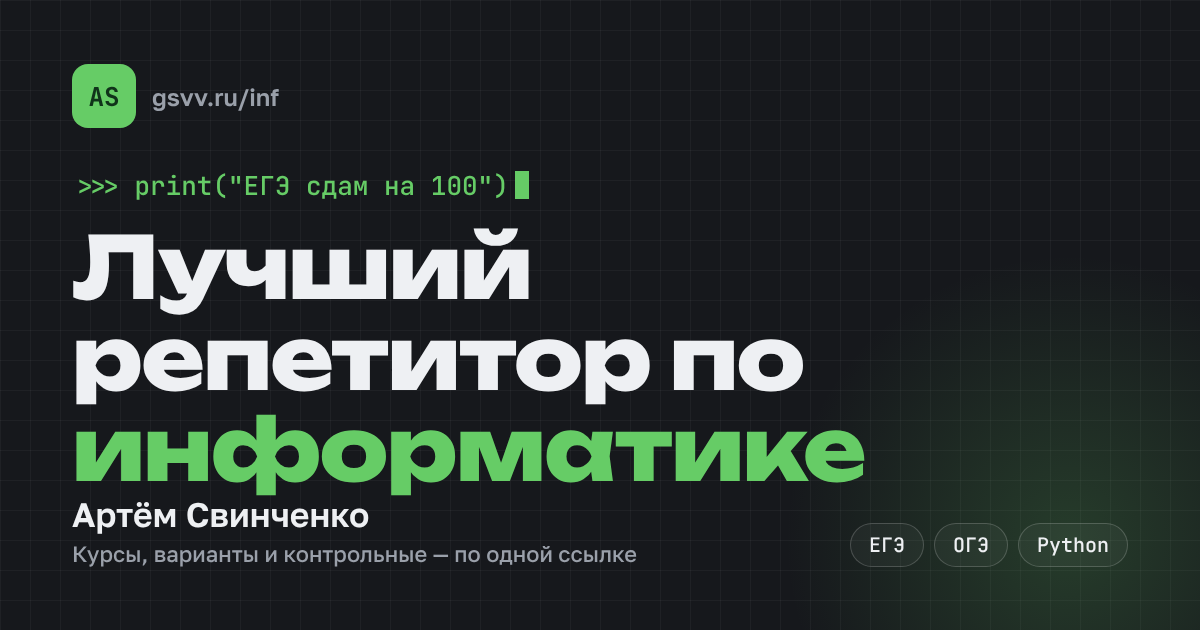
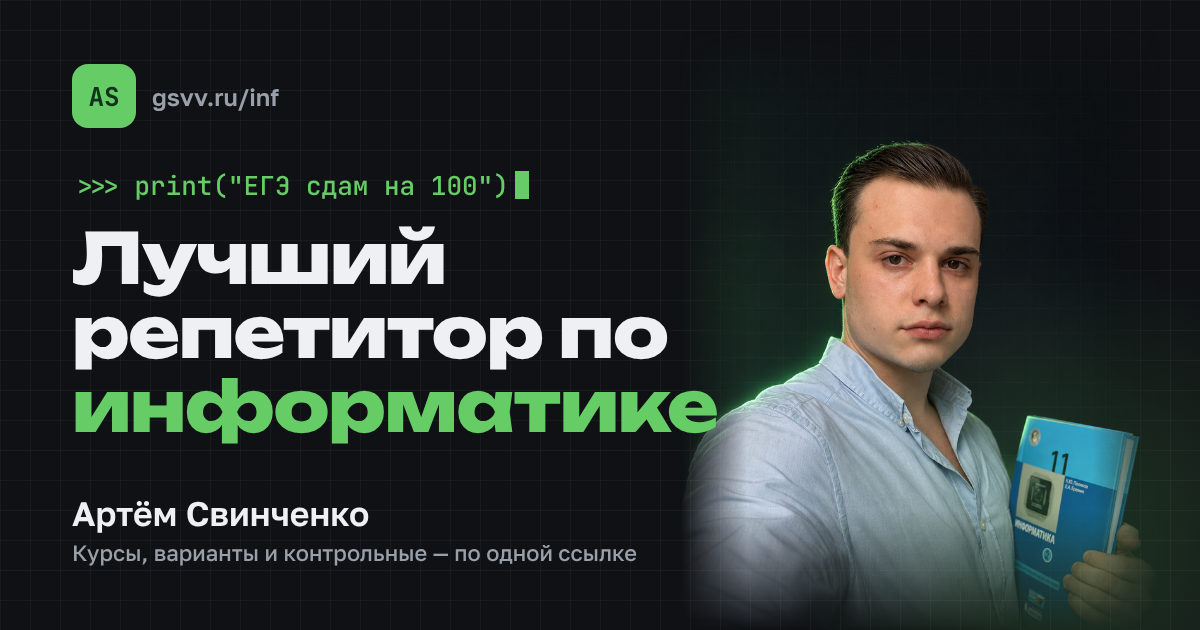
Фото преподавателя на главной и в превью для Telegram
Claude-Session: https://claude.ai/code/session_01Ao1BSdKykMczjAJNvrWkEw

Changed region(s): [[0.0617, 0.2111, 0.9558, 0.9651], [0.2467, 0.8746, 0.5242, 0.9048], [0.0617, 0.8746, 0.2158, 0.9048]]

diff --git a/site/index.html b/site/index.html
@@ -26,7 +26,7 @@
 <style>
 /* Layout: dark terminal-style hero with the name, then a tab switcher (courses / variants / tests) over a grid of cards */
 :root{
-  --hero:#16181c; --hero-2:#1f2227; --hero-ink:#eef0f3; --hero-muted:#9aa0aa;
+  --hero:#0f1114; --hero-2:#1b1e22; --hero-ink:#eef0f3; --hero-muted:#9aa0aa;
   --green:#66cc66; --green-d:#4fae4f; --green-ink:#2e8b2e; --green-soft:#e9f6e9;
   --bg:#f5f6f4; --card:#ffffff; --ink:#1c1f24; --muted:#636a74; --line:#dfe3e0;
   --f-display:"Unbounded","Golos Text",system-ui,sans-serif;
@@ -53,7 +53,13 @@ a{color:inherit}
 .brand span{font:600 14px var(--f-body);color:var(--hero-muted)}
 .theme{width:40px;height:40px;border-radius:10px;border:1px solid #ffffff22;background:var(--hero-2);color:var(--hero-ink);display:flex;align-items:center;justify-content:center;cursor:pointer;padding:0}
 .theme svg{width:19px;height:19px}
-.hero-in{position:relative;padding-block:34px 56px;display:flex;flex-direction:column;gap:18px}
+.hero-in{position:relative;display:grid;grid-template-columns:minmax(0,1fr) minmax(0,400px);gap:24px 40px;align-items:end}
+.hero-text{display:flex;flex-direction:column;gap:18px;padding-block:34px 64px;min-width:0}
+.photo{margin:0;align-self:end;position:relative}
+.photo img{display:block;width:100%;height:auto;max-width:100%;
+  -webkit-mask-image:linear-gradient(to bottom,transparent 0,#000 14%,#000 78%,transparent 100%),linear-gradient(to right,transparent 0,#000 12%,#000 88%,transparent 100%);
+  -webkit-mask-composite:source-in;mask-image:linear-gradient(to bottom,transparent 0,#000 14%,#000 78%,transparent 100%),linear-gradient(to right,transparent 0,#000 12%,#000 88%,transparent 100%);mask-composite:intersect}
+.photo figcaption{position:absolute;left:2%;bottom:34%;font:500 12px var(--f-mono);color:var(--green);background:#0f1114cc;border:1px solid #66cc6655;border-radius:999px;padding:5px 12px;white-space:nowrap}
 .prompt{font:500 14px var(--f-mono);color:var(--green)}
 .prompt i{font-style:normal;display:inline-block;width:9px;height:17px;background:var(--green);vertical-align:-3px;margin-left:4px;animation:blink 1.1s steps(1) infinite}
 @keyframes blink{50%{opacity:0}}
@@ -98,7 +104,8 @@ main{padding-block:28px 64px}
 
 footer{border-top:1px solid var(--line);padding-block:22px 34px;color:var(--muted);font-size:14px}
 footer .wrap{display:flex;flex-wrap:wrap;gap:8px 20px;justify-content:space-between}
-@media (max-width:520px){.grid{grid-template-columns:minmax(0,1fr)}.hero-in{padding-block:22px 40px}}
+@media (max-width:820px){.hero-in{grid-template-columns:minmax(0,1fr);gap:0}.hero-text{padding-block:22px 8px}.photo{max-width:340px;justify-self:center;width:100%}}
+@media (max-width:520px){.grid{grid-template-columns:minmax(0,1fr)}}
 </style>
 </head>
 <body>
@@ -108,10 +115,13 @@ footer .wrap{display:flex;flex-wrap:wrap;gap:8px 20px;justify-content:space-betw
     <button class="theme" id="theme" type="button" aria-label="Переключить тему"></button>
   </div>
   <div class="wrap hero-in">
+   <div class="hero-text">
     <span class="prompt">&gt;&gt;&gt; print("ЕГЭ сдам на 100")<i></i></span>
     <h1>Лучший репетитор по <em>информатике</em></h1>
     <div class="who"><b>Артём Свинченко</b><span>курсы, варианты и контрольные — всё по одной ссылке</span></div>
     <div class="chips"><span class="chip">Python</span><span class="chip">задания 1–27</span><span class="chip">решения и разборы</span><span class="chip">прогресс сохраняется</span></div>
+   </div>
+   <figure class="photo"><picture><source srcset="teacher.webp" type="image/webp"><img src="teacher.jpg" alt="Артём Свинченко с учебником информатики" width="760" height="950" fetchpriority="high"></picture><figcaption>&gt;&gt;&gt; teacher.ready()</figcaption></figure>
   </div>
 </header>
 
